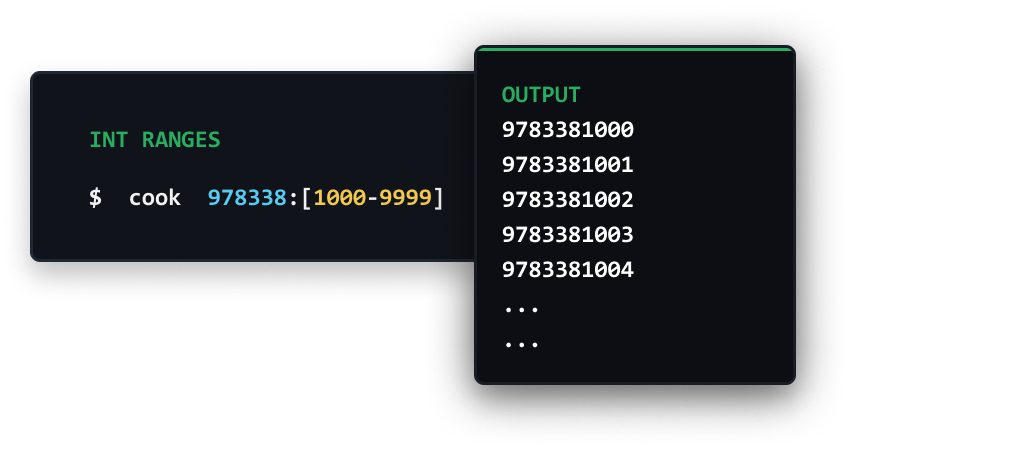
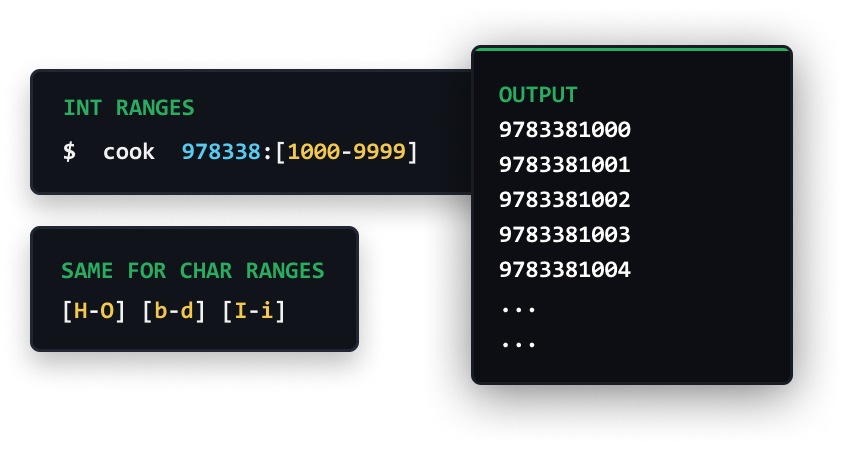
Added Char Ranges (#15)
- Added char ranges
- Updated Readme

diff --git a/parseinput.go b/parseinput.go
@@ -25,36 +25,76 @@ func parseCommandArg(list []string, val string) ([]string, string) {
 	return list, ""
 }
 
-func parseIntRanges(p string) ([]string, bool) {
+func parseRanges(p string) ([]string, bool) {
 	val := []string{}
+	success := false
+	chars := "ABCDEFGHIJKLMNOPQRSTUVWXYZabcdefghijklmnopqrstuvwxyz"
+
 	if strings.HasPrefix(p, "[") && strings.HasSuffix(p, "]") && strings.Contains(p, "-") {
-		p = strings.ReplaceAll(p, "[", "")
-		p = strings.ReplaceAll(p, "]", "")
+
+		p = strings.ReplaceAll(strings.ReplaceAll(p, "[", ""), "]", "")
 		numRange := strings.SplitN(p, "-", 2)
+		from := numRange[0]
+		to := numRange[1]
 
-		start, err := strconv.Atoi(numRange[0])
-		if err != nil {
-			return val, false
+		start, err1 := strconv.Atoi(from)
+		stop, err2 := strconv.Atoi(to)
+
+		if err1 == nil && err2 == nil {
+			for start <= stop {
+				val = append(val, strconv.Itoa(start))
+				start++
+			}
+			success = true
 		}
 
-		stop, err := strconv.Atoi(numRange[1])
-		if err != nil {
-			return val, false
-		}
+		if !success && len(from) == 1 && len(to) == 1 && strings.Contains(chars, from) && strings.Contains(chars, to) {
+			start = strings.Index(chars, from)
+			stop = strings.Index(chars, to)
 
-		for start <= stop {
-			val = append(val, strconv.Itoa(start))
-			start++
+			if start < stop {
+				charsList := strings.Split(chars, "")
+				for start <= stop {
+					val = append(val, charsList[start])
+					start++
+				}
+				success = true
+			}
 		}
-
-		return val, true //get all ranges
 	}
-	return val, false
+	return val, success
 }
 
 var columnCases = make(map[int][]string)
 
-//Parse Input
+func updateCases(caseValue string, noOfColumns int) {
+	caseValue = strings.ToUpper(caseValue)
+	if !strings.Contains(caseValue, ":") {
+		tmp := strings.Split(caseValue, "")
+
+		//For Camel Case Only
+		if strings.Contains(caseValue, "C") {
+			columnCases[0] = append(columnCases[0], "L")
+			for i := 1; i < noOfColumns; i++ {
+				columnCases[i] = append(columnCases[i], "T")
+			}
+		}
+
+		for i := 0; i < noOfColumns; i++ {
+			columnCases[i] = append(columnCases[i], tmp...)
+		}
+	} else {
+		for _, val := range strings.Split(caseValue, ",") {
+			v := strings.SplitN(val, ":", 2)
+			i, err := strconv.Atoi(v[0])
+			if err != nil {
+				panic(err)
+			}
+			columnCases[i] = strings.Split(v[1], "")
+		}
+	}
+}
+
 func parseInput(commands []string) {
 
 	if len(commands) == 0 {
@@ -70,7 +110,7 @@ func parseInput(commands []string) {
 		showConfig()
 	}
 
-	commands, verbose = parseCommand(commands, "-v")
+	// commands, verbose = parseCommand(commands, "-v")
 	commands, caseValue := parseCommandArg(commands, "-case")
 	commands, minValue := parseCommandArg(commands, "-min")
 
@@ -90,31 +130,7 @@ func parseInput(commands []string) {
 	}
 
 	if caseValue != "" {
-		caseValue = strings.ToUpper(caseValue)
-		if !strings.Contains(caseValue, ":") {
-			tmp := strings.Split(caseValue, "")
-
-			//For Camel Case Only
-			if strings.Contains(caseValue, "C") {
-				columnCases[0] = append(columnCases[0], "L")
-				for i := 1; i < noOfColumns; i++ {
-					columnCases[i] = append(columnCases[i], "T")
-				}
-			}
-
-			for i := 0; i < noOfColumns; i++ {
-				columnCases[i] = append(columnCases[i], tmp...)
-			}
-		} else {
-			for _, val := range strings.Split(caseValue, ",") {
-				v := strings.SplitN(val, ":", 2)
-				i, err := strconv.Atoi(v[0])
-				if err != nil {
-					panic(err)
-				}
-				columnCases[i] = strings.Split(v[1], "")
-			}
-		}
+		updateCases(caseValue, noOfColumns)
 	}
 
 	for i, cmd := range commands[:last] {
@@ -128,6 +144,7 @@ func parseInput(commands []string) {
 
 func parseValue(value string) []string {
 
+	//Checking for patterns/functions
 	if strings.Contains(value, "(") && strings.HasSuffix(value, ")") {
 		function := strings.SplitN(value, "(", 2)
 		funcName := function[0]
@@ -153,6 +170,7 @@ func parseValue(value string) []string {
 		}
 	}
 
+	// Checking for File and Regex
 	if strings.Contains(value, ":") {
 		if strings.Count(value, ":") == 2 {
 			// File is starting from E: C: D: for windows + Regex is supplied

diff --git a/main.go b/main.go
@@ -10,12 +10,12 @@ import (
 	"gopkg.in/yaml.v2"
 )
 
-var gopath = os.Getenv("GOPATH")
 var m = make(map[interface{}]map[string][]string)
 var params = make(map[string]string)
 var pattern = []string{}
 var version = "1.5"
-var verbose = false
+
+// var verbose = false
 var min int
 
 const (
@@ -32,14 +32,14 @@ var banner = `
 
                              
   ░            ░ ░      ░ ░  ░  ░   
- ░        ░ ░ ░ ▒  ░ ░ ░ ▒  ░ ░░ ░ 
-  ░  ▒     ░ ▒ ▒░   ░ ▒ ▒░ ░ ░▒ ▒░
+  ░ ░        ░ ░ ░ ▒  ░ ░ ░ ▒  ░    
+░░▒ ▒░    ░ ▒ ▒░   ░ ▒ ▒░ ░ ░ ▒ ░
 ░ ░▒ ▒  ░░ ▒░▒░▒░ ░ ▒░▒░▒░ ▒ ▒▒ ▓▒
  ▄████▄   ▒█████   ▒█████   ██ ▄█▀           A CUSTOMIZABLE WORDLIST
 ▒██▀ ▀█  ▒██▒  ██▒▒██▒  ██▒ ██▄█▒            AND PASSWORD GENERATOR
 ▒▓█    ▄ ▒██░  ██▒▒██░  ██▒▓███▄░ 
 ▒▓▓▄ ▄██▒▒██   ██░▒██   ██░▓██ █▄            dev by Gitesh Sharma 
- ▒ ▓███▀ ░░ ████▓▒░░ ████▓▒░▒██▒ █▄ ` + version + `      @giteshnxtlvl
+ ▒▓███▀ ░░ ████▓▒░░ ████▓▒░▒██▒ █▄ ` + version + `      @giteshnxtlvl
 
 `
 
@@ -208,7 +208,7 @@ func main() {
 
 		for _, p := range strings.Split(param, ",") {
 
-			val, success := parseIntRanges(p)
+			val, success := parseRanges(p)
 			if success {
 				columnValues = append(columnValues, val...)
 				continue

diff --git a/README.md b/README.md
@@ -23,16 +23,16 @@
   - [Words Sets](#create-your-own-unique-sets)
   - [Character sets - Use it like crunch](#use-it-like-crunch)
   - [Patterns/Functions](#patternsfunctions)
-  - [Int Ranges](#int-ranges)
+  - [Ranges](#ranges)
 - Using Files
   - [Regex Input from File](#regex-input-from-file)
   - [File Not Found](#regex-input-from-file)
   - [Save your wordlists by unique names](#save-wordlists-by-unique-names)
-- [Uppercase, Lowercase, Titlecase, Camelcase or All](#cases)
+- [Cases](#cases)
+- [Using COOK with other tools](#using-cook-with-other-tools)
+- [Useful Resources](#useful-resources)
 - [Contribute](#contribute)
-  - [Using COOK with other tools](#using-cook-with-other-tools)
-  - [Useful Resources](#useful-resources)
-- [Todo](#todo)
+- [Upcoming Features](#upcoming-features)
 - [All predefined sets list](#all-sets)
 
 # Installation
@@ -55,11 +55,8 @@ OR
 # Customizing tool
 By customizing you will able to make and use your own lists and patterns/functions.
 
-1. Create empty file named `cook.yaml`
-*or*
-Download [cook.yaml](https://github.com/giteshnxtlvl/cook/blob/main/cook.yaml)
-1. Create an environment variable `COOK` =`Path of file`
-    [How to setup up env variable?](https://www.schrodinger.com/kb/1842)
+1. Create empty file named `cook.yaml` *or* Download [cook.yaml](https://github.com/giteshnxtlvl/cook/blob/main/cook.yaml)
+1. Create an environment variable `COOK` =`Path of file`  
 3. Done, Run `cook -config`
 > Note: If you don't want to customize tool, then just don't set `COOK` in env variables.
 
@@ -105,8 +102,8 @@ Understanding concept is important!
   cook -name elliot -birth date(17,Sep,1994) name:birth
 ```
 
-# Int Ranges
-<img width="768" src="./images/13.png"> 
+# Ranges
+<img width="640" src="./images/13.png"> 
 
 # Files
   ### Regex Input from File  
@@ -133,22 +130,8 @@ Understanding concept is important!
   ```
 
 # Cases
-
 <img src="./images/12.png">
 
-# Contribute
-- Share your awesome recipes.
-- Share useful lists and patterns for COOK.
-- Share Ideas or new Feature Request.
-- Check out [discussions](https://github.com/giteshnxtlvl/cook/discussions).
-- Update Below topics.
-  - [Useful Resources](#useful-resources)
-  - [Using COOK with other tools](#using-cook-with-other-tools)
-
-> Create [discussions](https://github.com/giteshnxtlvl/cook/discussions) for these.
-
-# Support
-<a href="https://www.buymeacoffee.com/giteshnxtlvl"><img width="300" src="./images/coffee.png"></a>
 
 # Using COOK with other tools
 
@@ -169,14 +152,28 @@ Understanding concept is important!
 | [all_tlds.txt](https://raw.githubusercontent.com/publicsuffix/list/master/public_suffix_list.dat) | List of all tlds |
 | [Tip](https://twitter.com/krizzsk/status/1377666014347980801) by [Joel Verghese](https://twitter.com/krizzsk) | FUZZ CDNs - Logical Fuzzing |
 
+# Contribute
+- Share your awesome recipes.
+- Share useful lists and patterns for COOK.
+- Share Ideas or new Feature Request.
+- Check out [discussions](https://github.com/giteshnxtlvl/cook/discussions).
+- Add [Useful Resources](#useful-resources)
+- Add [Using COOK with other tools](#using-cook-with-other-tools)
 
-# Todo
-- Endpoints Analyser
-- Interactive mode for configuring `cook.yaml`
+> Create [discussions](https://github.com/giteshnxtlvl/cook/discussions) for these.
+
+# Support  
+If you like the tool, support the development of tool, this will speed up development of [Upcoming Features](#upcoming-features)  
+
+<a href="https://www.buymeacoffee.com/giteshnxtlvl"><img width="300" src="./images/BMEC2X.png"></a>
 
 # Contributors
 - @giteshnxtlvl - Core
 - @noraj - Added ffuf command in [Using COOK with other tools](#using-cook-with-other-tools)
+
+# Upcoming Features
+- Endpoints Analyser
+- Interactive mode for configuring `cook.yaml`
 
 # All Sets
 ```yaml
@@ -227,7 +224,6 @@ patterns:
         - D.Y  
         - M.Y  
         - D.M
-
 
 # Extension Set, . will added before using this
 extensions:
